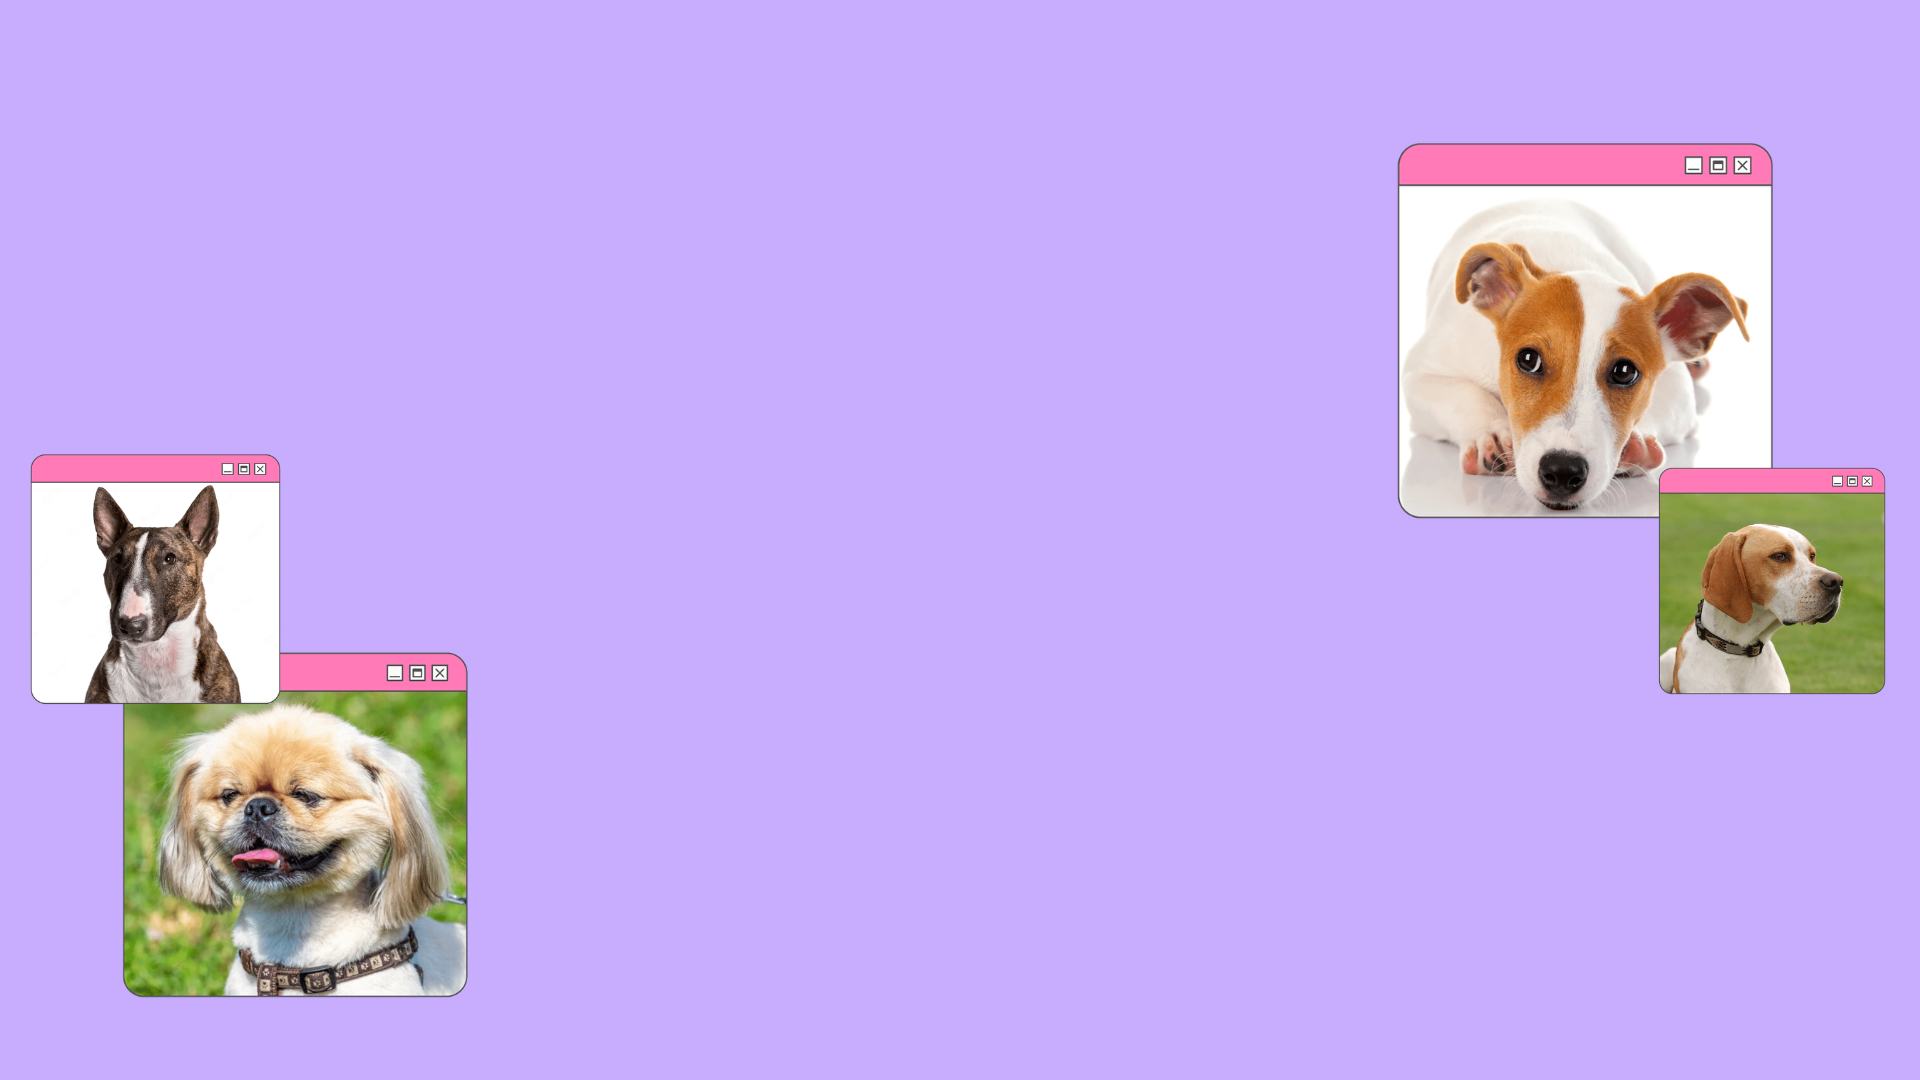
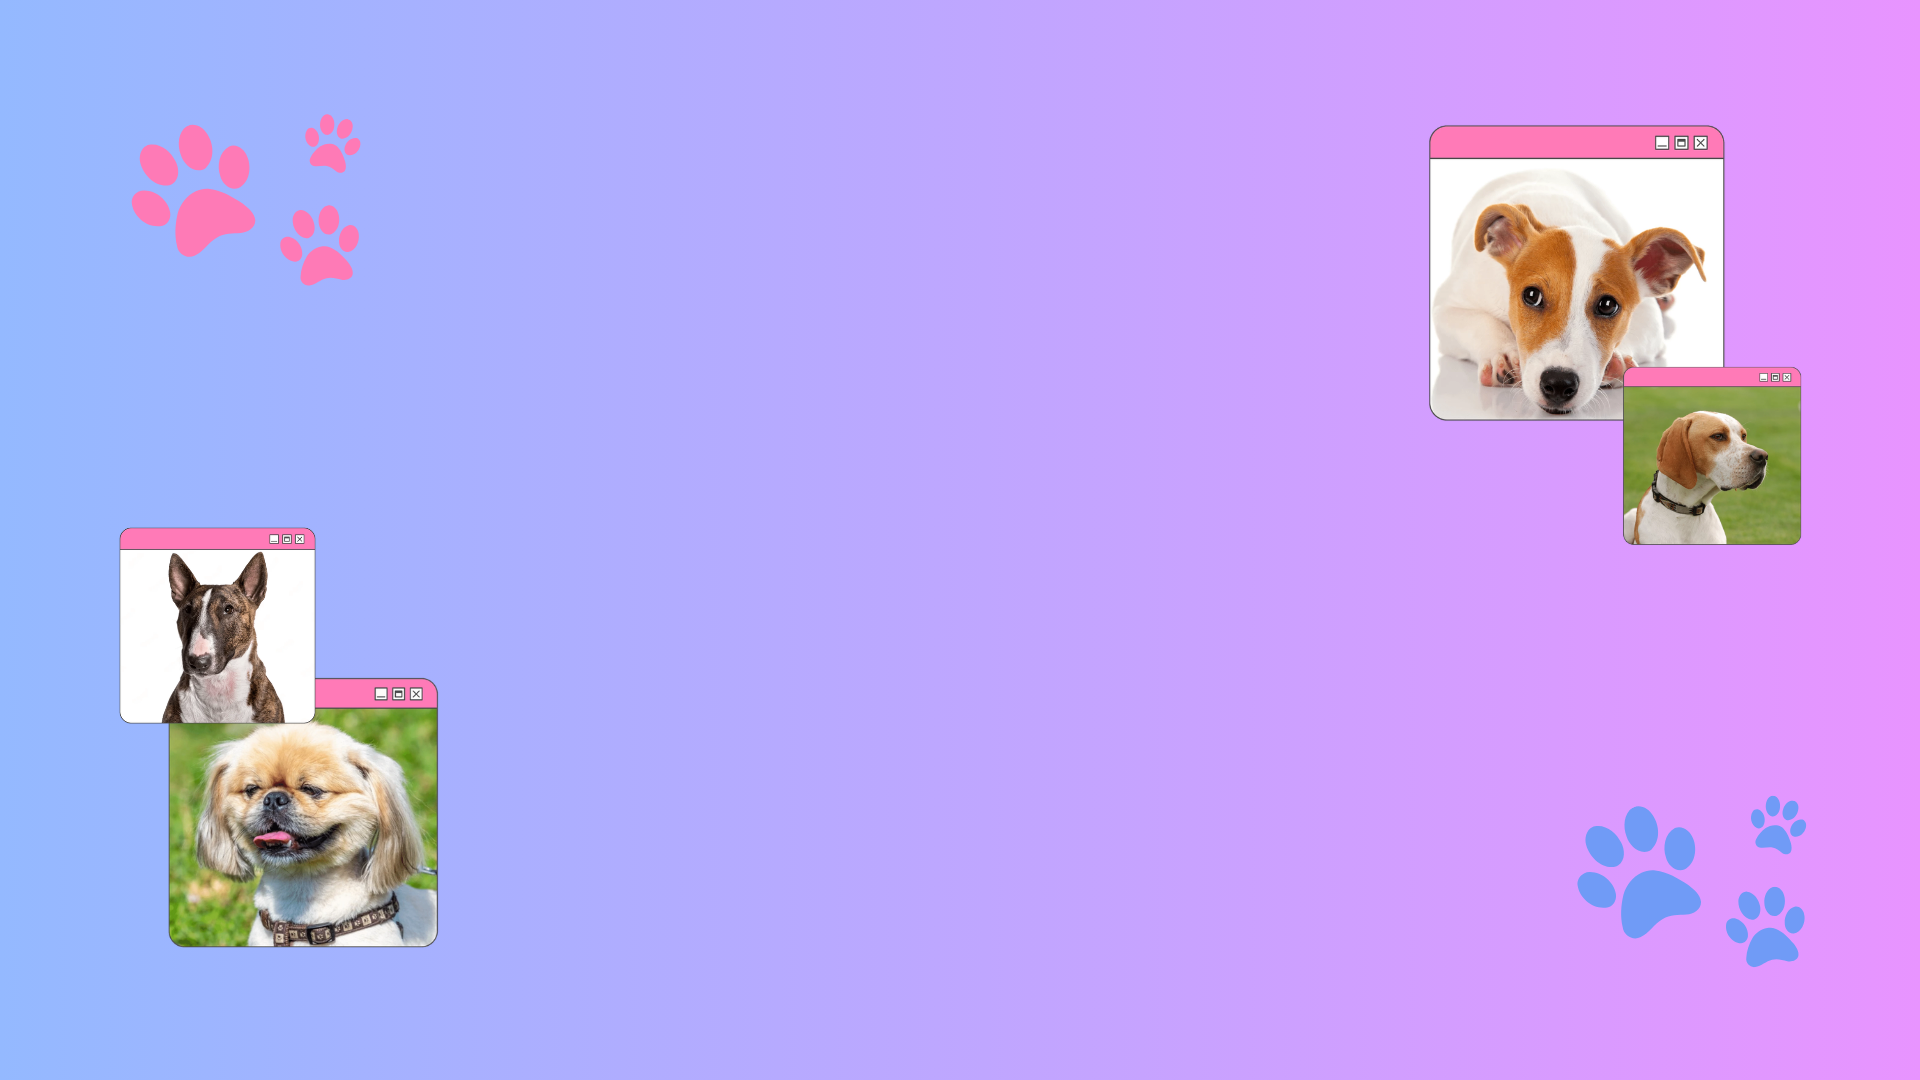
add - Efeitos visuais: sobras, titulo, animações. Correção dos erros de formulário e melhora no visual geral

diff --git a/script.js b/script.js
@@ -106,13 +106,18 @@ form.addEventListener('submit', function (e) {
         valido = false;
     }
 
-    if (!email.includes('@')) {
+    if(email.length < 1){
+        document.getElementById('erroEmail').textContent = "Insira um email";
+        valido = false;
+    } else if (!email.includes('@')) {
         document.getElementById('erroEmail').textContent = "Seu email precisa conter um '@'.";
         valido = false;
+    } else {
+        document.getElementById('erroEmail').textContent = "";
     }
 
     if (cpfvalidados.includes(cpf)) {
-        document.getElementById('erroCpf').textContent = "esse CPF já esta cadastrado.";
+        document.getElementById('erroCpf').textContent = "Esse CPF já esta cadastrado.";
     } else if (cpf.length < 14) {
         document.getElementById('erroCpf').textContent = "Seu Cpf é invalido.";
         valido = false;
@@ -131,7 +136,7 @@ form.addEventListener('submit', function (e) {
         document.getElementById('erroMotivo').textContent = "Adicione o motivo da adoção."
     }else{
         if (motivosinvalidos.includes(motivo.toLowerCase())) {
-                document.getElementById('erroMotivo').textContent = "meu deus cara pelamordedeus escreve algo certo";
+                document.getElementById('erroMotivo').textContent = "Insira um motivo valido...";
         }
     }
     
@@ -164,7 +169,7 @@ form.addEventListener('submit', function (e) {
             valido = true;
             } else {
                 document.getElementById('erroQuintal').textContent = "";
-                document.getElementById('erroSeguro').textContent = "problema voce não pdoe ter animais!!";
+                document.getElementById('erroSeguro').textContent = "Você não pode ter um animal!";
                 quintalSeguro.style.backgroundColor = "rgb(255, 184, 157)";
                 valido = false
             }
@@ -179,7 +184,7 @@ form.addEventListener('submit', function (e) {
         if (permite.value === "permite") {
             permiteAnimais.style.backgroundColor = "white";
         }else{
-                document.getElementById('erroPermite').textContent = "Você não pode ter animais";
+                document.getElementById('erroPermite').textContent = "Você não pode ter um animal!";
                 permiteAnimais.style.backgroundColor = "rgb(255, 184, 157)";
                 valido = false;
              }

diff --git a/style.css b/style.css
@@ -1,7 +1,8 @@
-body{
+body {
     background-image: url(assets/Background_image.png);
-    background-size: 100%;
-    background-position: -30%;
+    background-size: cover;
+    background-position: center;
+    background-repeat: no-repeat;
 }
 
 fieldset{
@@ -15,24 +16,42 @@ fieldset{
 }
 
 #sectitulo{
+    margin-top: 40px;
     display: flex;
     justify-content: center;
-    color: rgb(37, 0, 17);
     font-size: 30px;
     font-family: 'Segoe UI', Tahoma, Geneva, Verdana, sans-serif;
 }
-
 #formtitulo{
-    display: flex;;
+    display: flex;
     justify-content: center;
+    margin: 0 10px;
+    font-family: 'Segoe UI', Tahoma, Geneva, Verdana, sans-serif;
+    text-align: center;
+    word-break: normal;
+    background-color: rgb(253, 121, 183);
+    box-shadow: inset 0 4px 10px rgba(0,0,0,0.3);
+}
+#formtitulo p{
+    margin: 10px 10px;
+    color: rgb(255, 255, 255);
+    font-weight: 400;
+    font-family: 'Segoe UI', Tahoma, Geneva, Verdana, sans-serif;
+    text-shadow: 0 4px 10px rgba(0,0,0,0.3);
+}
+#titulo{
+    color: rgb(255, 255, 255);
+    font-family: 'Segoe UI', Tahoma, Geneva, Verdana, sans-serif;
+    text-shadow: 0 4px 10px rgba(0,0,0,0.3);
 }
 
 .container{
+    position: relative;
     padding-top: 20px;
     padding-bottom: 40px;
     display: flex;
     justify-content: center;
-    overflow-y: scroll;
+    overflow-y: auto;
     width: 400px;
     height: 500px;
     position: absolute;
@@ -56,6 +75,37 @@ fieldset{
     background-color: rgb(255, 122, 183);
     border-radius: 10px 0px 0px 10px;
     min-height: 10px;
+}
+
+#botaostick {
+    position: sticky;
+    bottom: -41;
+    background: rgb(255, 255, 255);
+    padding: 10px;
+    display: flex;
+    justify-content: center;
+}
+#enviar{
+    padding: 6px 20px;
+    background-color: rgb(255, 122, 183);
+    color: white;
+    border: 2px solid rgba(0, 0, 0, 0.589);
+    border-radius: 15px;
+    font-family: 'Segoe UI', Tahoma, Geneva, Verdana, sans-serif;
+    font-size: 20px;
+    box-shadow: 0 5px 0 rgba(59, 59, 59, 0.712);
+    transition: all 0.1s ease;
+}
+#enviar:hover{
+    cursor: pointer;
+    background-color: rgb(255, 137, 192);
+    color: rgb(255, 255, 255);
+    transform: translateY(3px);
+    box-shadow: 0 2px 0 rgba(59, 59, 59, 0.712);
+    transition: all 0.1s ease;
+}
+#enviar:active{
+    background-color: rgb(253, 87, 164);
 }
 
 input{

diff --git a/index.html b/index.html
@@ -9,7 +9,7 @@
 
     <section id="sectitulo">
         <div id="divtitulo">
-            <h1 id="titulo">Adotar um doguinho!</h1>
+            <h1 id="titulo">Dê um lar a quem precisa!</h1>
         </div>
     </section>
 
@@ -17,11 +17,11 @@
 
         
 
-        <form action="" id="formulario">
+        <form action="" id="formulario" novalidate>
             
         <div id="formtitulo">
             <div>
-                <p>Responda o formulário:</p>  
+                <p>Preencha o formulário e encontre seu companheiro ideal</p>  
             </div>
         </div>
 
@@ -141,11 +141,13 @@
                 <div class="erro" id="erroTermo"></div>
             </fieldset>
 
-            <fieldset>
+            <fieldset id="botaostick">
                 <button id="enviar" type="submit">Enviar</button>
             </fieldset>
 
         </form>
+        
+        
 
     </div>
 
